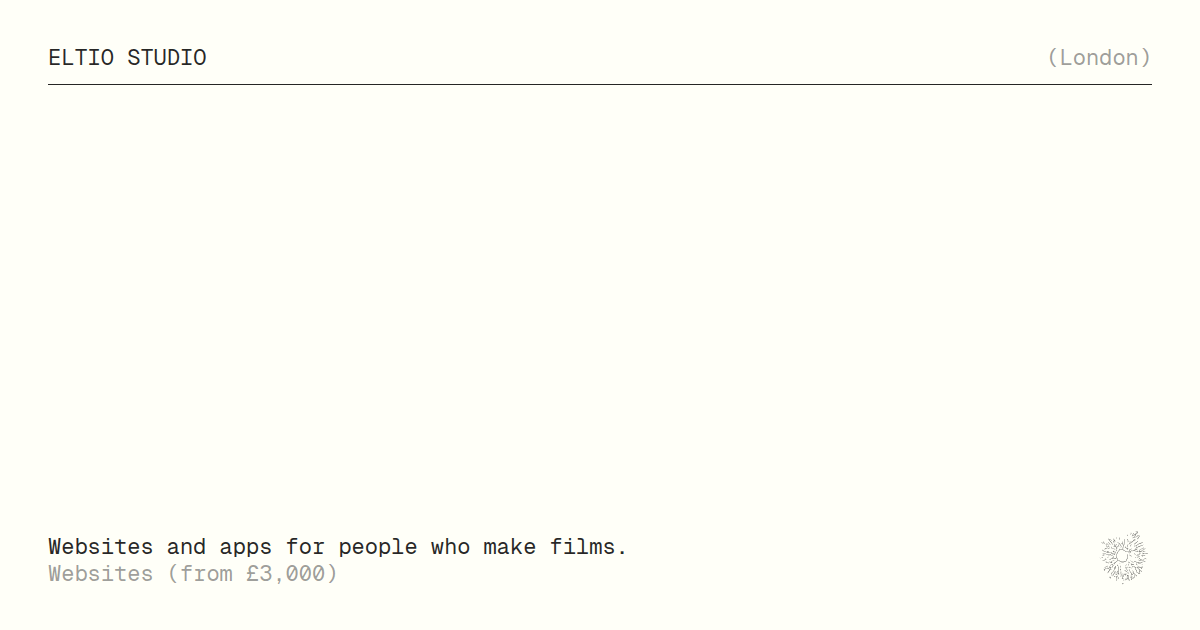
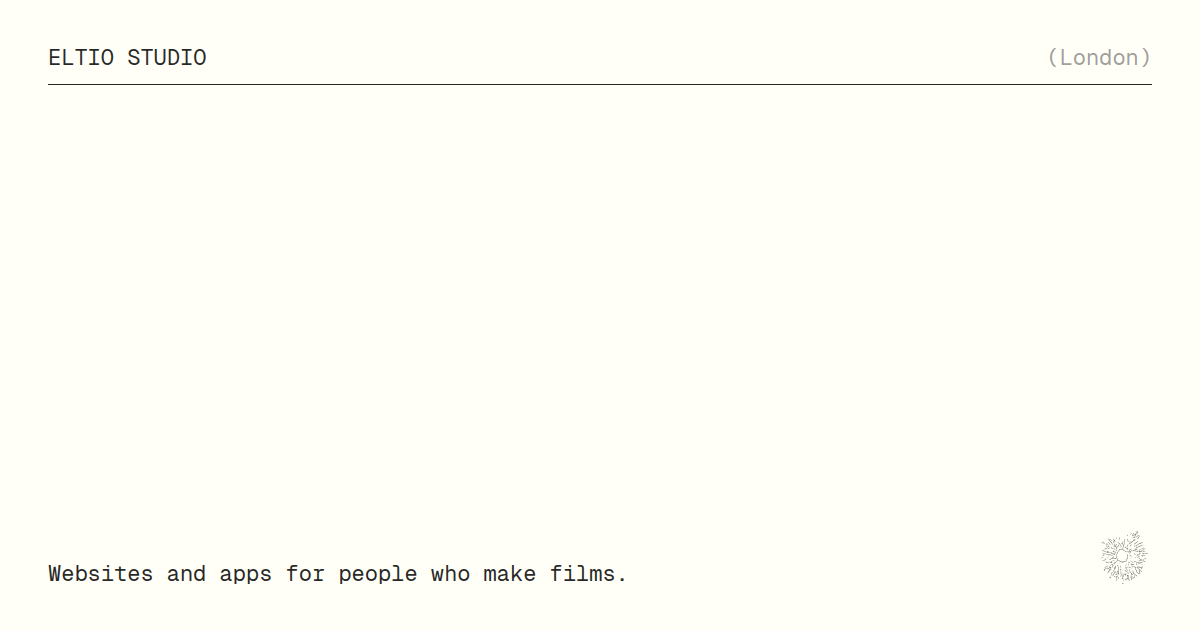
New copy, no price
Studio intro rewritten (started by Elliot Holbrow, a filmmaker who got
into software and apps), project notes in a looser voice, price removed
from the page and the share image.

Claude-Session: https://claude.ai/code/session_01UP9XLJcJYF3iHGB7dSyvd7

Changed region(s): [[0.0308, 0.8444, 0.5242, 0.9349]]

diff --git a/index.html b/index.html
@@ -22,16 +22,11 @@
     <div>hello@eltio.studio</div>
     <div>(<a href="https://instagram.com/eltio.studio">Instagram</a>)</div>
     <div class="br"></div>
-    <p>Eltio is a small studio in London, making websites and apps for people who make films: cinematographers, directors and small production companies.</p>
+    <p>Eltio Studio was started in 2026 by Elliot Holbrow, a filmmaker who got into making software and building apps.</p>
     <div class="br"></div>
-    <p>It was started in 2026 by Elliot Holbrow, a cinematographer, after building his own site and wanting the same thing for the people he works with.</p>
+    <p>It makes portfolio sites and software: websites that let the work speak, and apps that make a job easier. A few of them are below.</p>
     <div class="br"></div>
-    <p class="m">The sites look like the work, not like the studio. Pages stay mostly empty so a single frame can carry them. Films open in a player.</p>
-    <div class="br"></div>
-    <div class="caps">Websites (from &pound;3,000)</div>
-    <p class="m">Built in about two weeks. Half to start, half at handover. No subscription. Your domain, code and films sit in your own accounts from day one.</p>
-    <div class="br"></div>
-    <p>Send a link to your work, and what you'd like it to do, to hello@eltio.studio.</p>
+    <p>If you want a website or an app, just give us a shout at hello@eltio.studio.</p>
     <div class="br"></div>
     <div class="caps"><a href="#index">Index</a></div>
     <div class="m foot"><span>(<span class="clock" id="clock" aria-label="London time">00:00:00</span> LDN)</span><span class="eye" style="width:24px;background:var(--s4)" aria-hidden="true"></span></div>
@@ -57,7 +52,7 @@
       <div class="colset">
         <div class="num"><span>1.</span><span>elliot.onl</span></div>
         <div class="cs-t"><span class="caps">Website (live)</span><br>(<a href="https://elliot.onl">elliot.onl</a>)</div>
-        <div class="cs-d">Elliot's own site as a cinematographer. Nineteen films in one list, with the director, format, type and running time. Tap a title and the film opens in place. Filter by fashion, commercial, music or short.</div>
+        <div class="cs-d">Elliot&rsquo;s own site. Nineteen films in one list, with the director, format and running time. Tap a title and it plays right there. Filter by fashion, commercial, music or short.</div>
         <div class="cs-s"><span class="m">Cargo, GitHub, Vimeo</span></div>
       </div>
     </section>
@@ -85,7 +80,7 @@
       <div class="colset">
         <div class="num"><span>2.</span><span>Out &amp; Scout</span></div>
         <div class="cs-t"><span class="caps">iPhone app (in testing)</span><br>(a viewfinder for the recce)</div>
-        <div class="cs-d">Frame the shot, find the sun, leave with a shot list. Set the camera and lens and the phone shows exactly that frame. The sun's path sits over the live view, a new scene starts every 100 metres you walk, and the shot list goes to the crew as a PDF or a link.</div>
+        <div class="cs-d">Line up the shot, see where the sun&rsquo;s going to be, and walk away with a shot list. Pick your camera and lens and the phone shows you exactly that frame. A new scene starts every 100 metres you walk, and the list goes to the crew as a PDF or a link.</div>
         <div class="cs-s"><span class="m">Swift, SwiftUI, native camera</span></div>
       </div>
     </section>
@@ -128,7 +123,7 @@
       <div class="colset">
         <div class="num"><span>3.</span><span>Lampwerk</span></div>
         <div class="cs-t"><span class="caps">iPhone app (in design)</span><br>(lighting plans for DPs and gaffers)</div>
-        <div class="cs-d">Place the heads you rent and read the light and the amps as you go, before you reach the location. Each fixture sits on the plan as the head it is, the levels and circuit loads follow as you move it, and the plan ends as an A4 gaffer sheet. Its only colour is a gel, Medium Yellow, and it only ever means light.</div>
+        <div class="cs-d">Plan the lighting before you&rsquo;ve even got to the location. Drop in the heads you&rsquo;re renting and it tells you the light levels and the amps as you move them around. It all ends up as an A4 gaffer sheet. The only colour is a gel, Medium Yellow, because it only ever means light.</div>
         <div class="cs-s"><span class="m">Swift, SwiftUI (planned)</span></div>
       </div>
     </section>
@@ -150,7 +145,7 @@
       <div class="colset">
         <div class="num"><span>4.</span><span>Spoolends</span></div>
         <div class="cs-t"><span class="caps">Website (in design)</span><br>(a shop for real film texture)</div>
-        <div class="cs-d">Grain, leaks, burns and grades shot on real stock, ready for any edit. The shop stays black and white; every pack takes its colour from its own footage. Tap + to add a pack.</div>
+        <div class="cs-d">Real film texture for your edits: grain, leaks, burns and grades, all shot on real stock. The shop stays black and white so each pack&rsquo;s colour comes from its own footage. Tap + to add one.</div>
         <div class="cs-s"><span class="m">Shop, stack to come</span></div>
       </div>
     </section>
@@ -177,7 +172,7 @@
       <div class="colset">
         <div class="num"><span>5.</span><span>Grip</span></div>
         <div class="cs-t"><span class="caps">Phone app (in build)</span><br>(an AI coach for climbers and grapplers)</div>
-        <div class="cs-d">Film a climb or a roll and Grip shows you what your body did. It tracks fifteen points, follows your centre of mass, and pins at most three notes to the moments that matter. You can hold your tape up against a friend's, or watch the same move from the side.</div>
+        <div class="cs-d">Film a climb or a roll and Grip shows you what your body actually did. It tracks fifteen points and your centre of mass, then pins up to three notes on the moments that matter. Hold your tape up against a mate&rsquo;s, or watch the same move from the side.</div>
         <div class="cs-s"><span class="m">Expo, Supabase, pose tracking</span></div>
       </div>
     </section>
